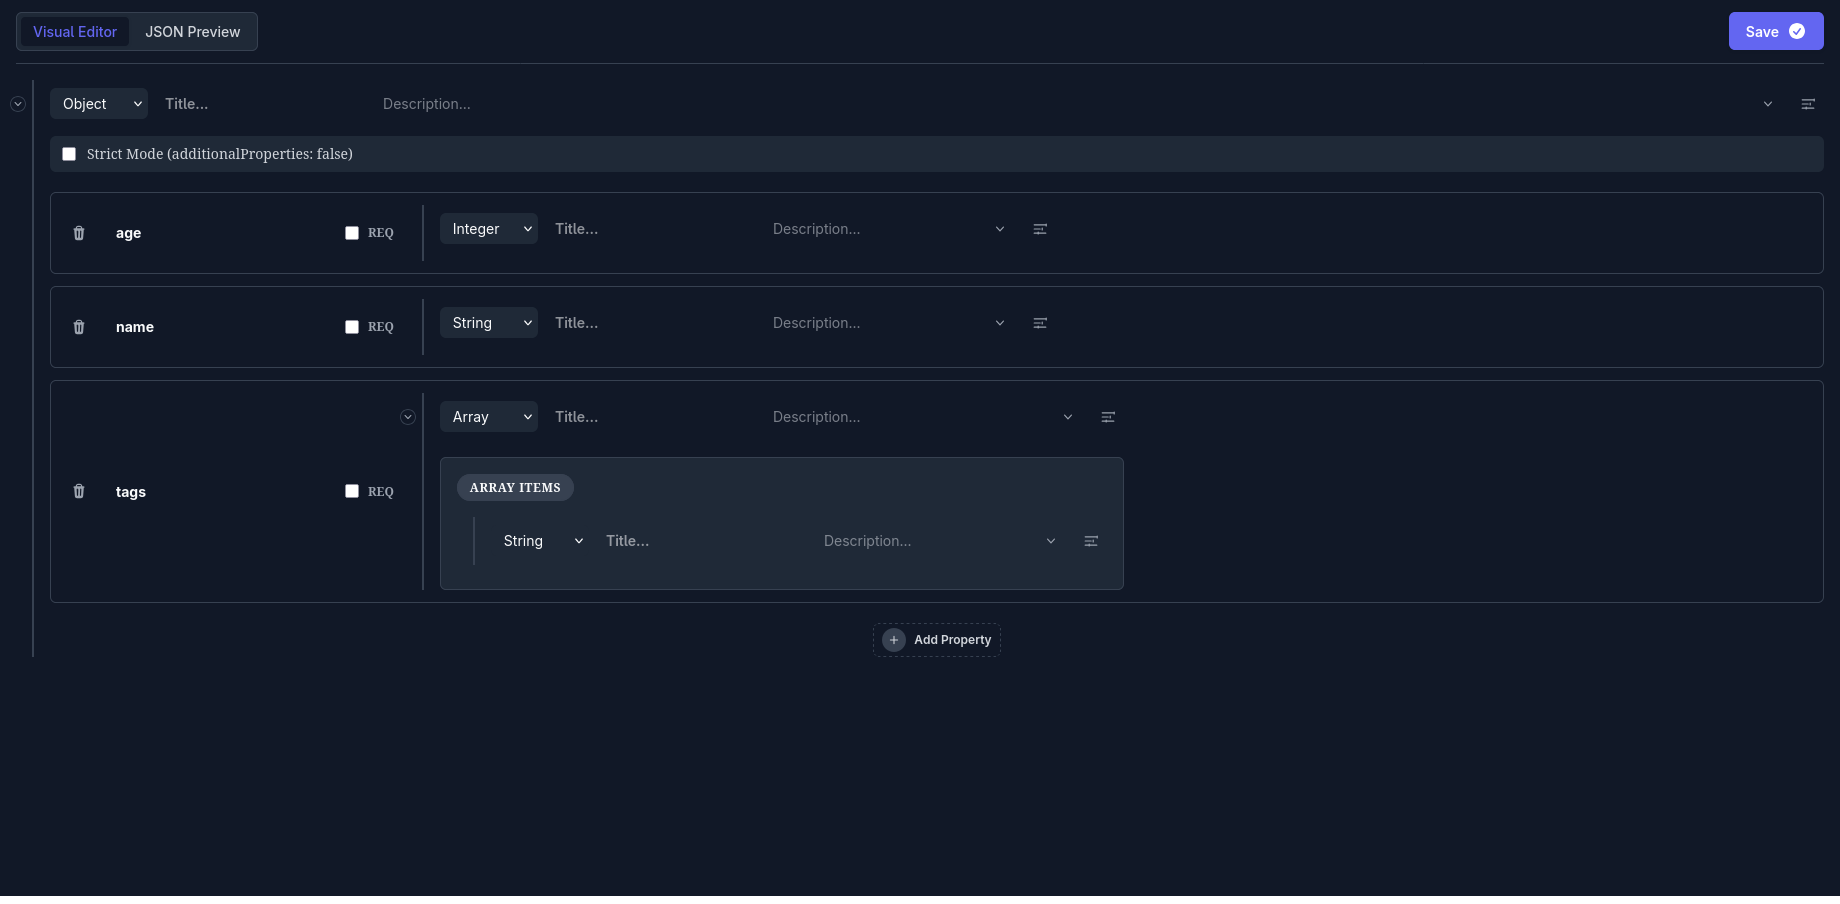
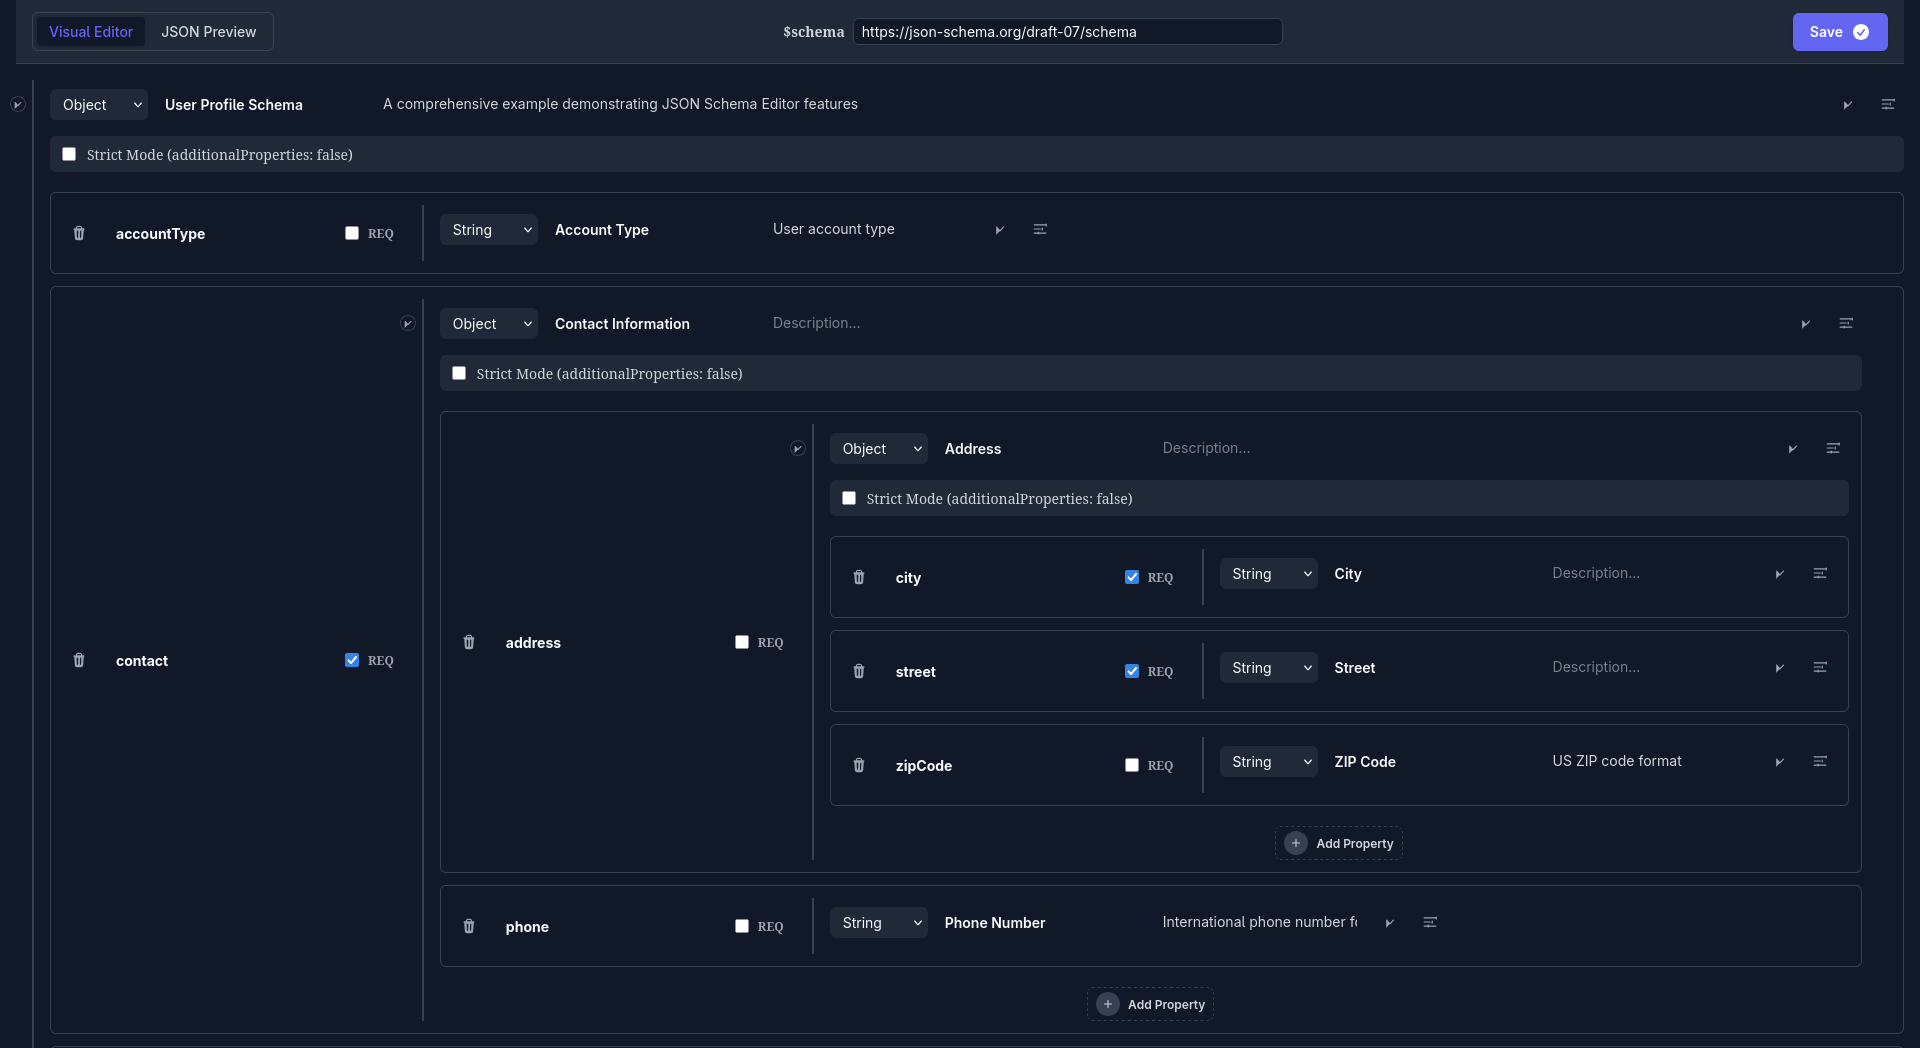
Update README.md & CHANGELOG.md

diff --git a/README.md b/README.md
@@ -9,8 +9,12 @@ A Phoenix LiveComponent for visually building, editing, and validating JSON Sche
 ## Features
 
 - **Visual Editing**: Recursively build and edit deeply nested objects and arrays.
-- **Real-time Validation**: In-editor logic checking (e.g., `min <= max`) with visual feedback.
-- **Lightweight**: The only dependency is `phoenix_live_view`.
+- **Tabbed Interface**: Switch between a visual editor and a live JSON preview.
+- **Logical Composition**: Support for `oneOf`, `anyOf`, and `allOf` composition types.
+- **Real-time Validation**: In-editor logic checking (e.g., `min <= max`) with immediate visual feedback.
+- **Full Draft 07 Support**: Includes constraints (minimum, pattern, etc.), enums, constants, and $schema management.
+- **Copy to Clipboard**: One-click export of the generated schema.
+- **Lightweight**: Zero external JS dependencies (uses native Phoenix hooks), only requires `phoenix_live_view`.
 
 ## Installation
 
@@ -48,6 +52,7 @@ let liveSocket = new LiveSocket("/live", Socket, {
 
 ## Usage
 
+The editor supports JSON Schema Draft 07. It automatically injects the `$schema` URI if not provided.
 
 ### 1. Initialize the Schema
 

diff --git a/CHANGELOG.md b/CHANGELOG.md
@@ -5,6 +5,15 @@ All notable changes to this project will be documented in this file.
 The format is based on [Keep a Changelog](https://keepachangelog.com/en/1.0.0/),
 and this project adheres to [Semantic Versioning](https://semver.org/spec/v2.0.0.html).
 
+## [0.3.0] - 2026-01-15
+
+### Changed
+- Major codebase refactor for simplicity and maintainability
+- Consolidated and simplified event handlers
+- Streamlined validation and schema utility functions
+- Improved module documentation and usage examples
+- Enhanced UI component data-driven rendering
+
 ## [0.2.0] - 2026-01-14
 
 ### Added
